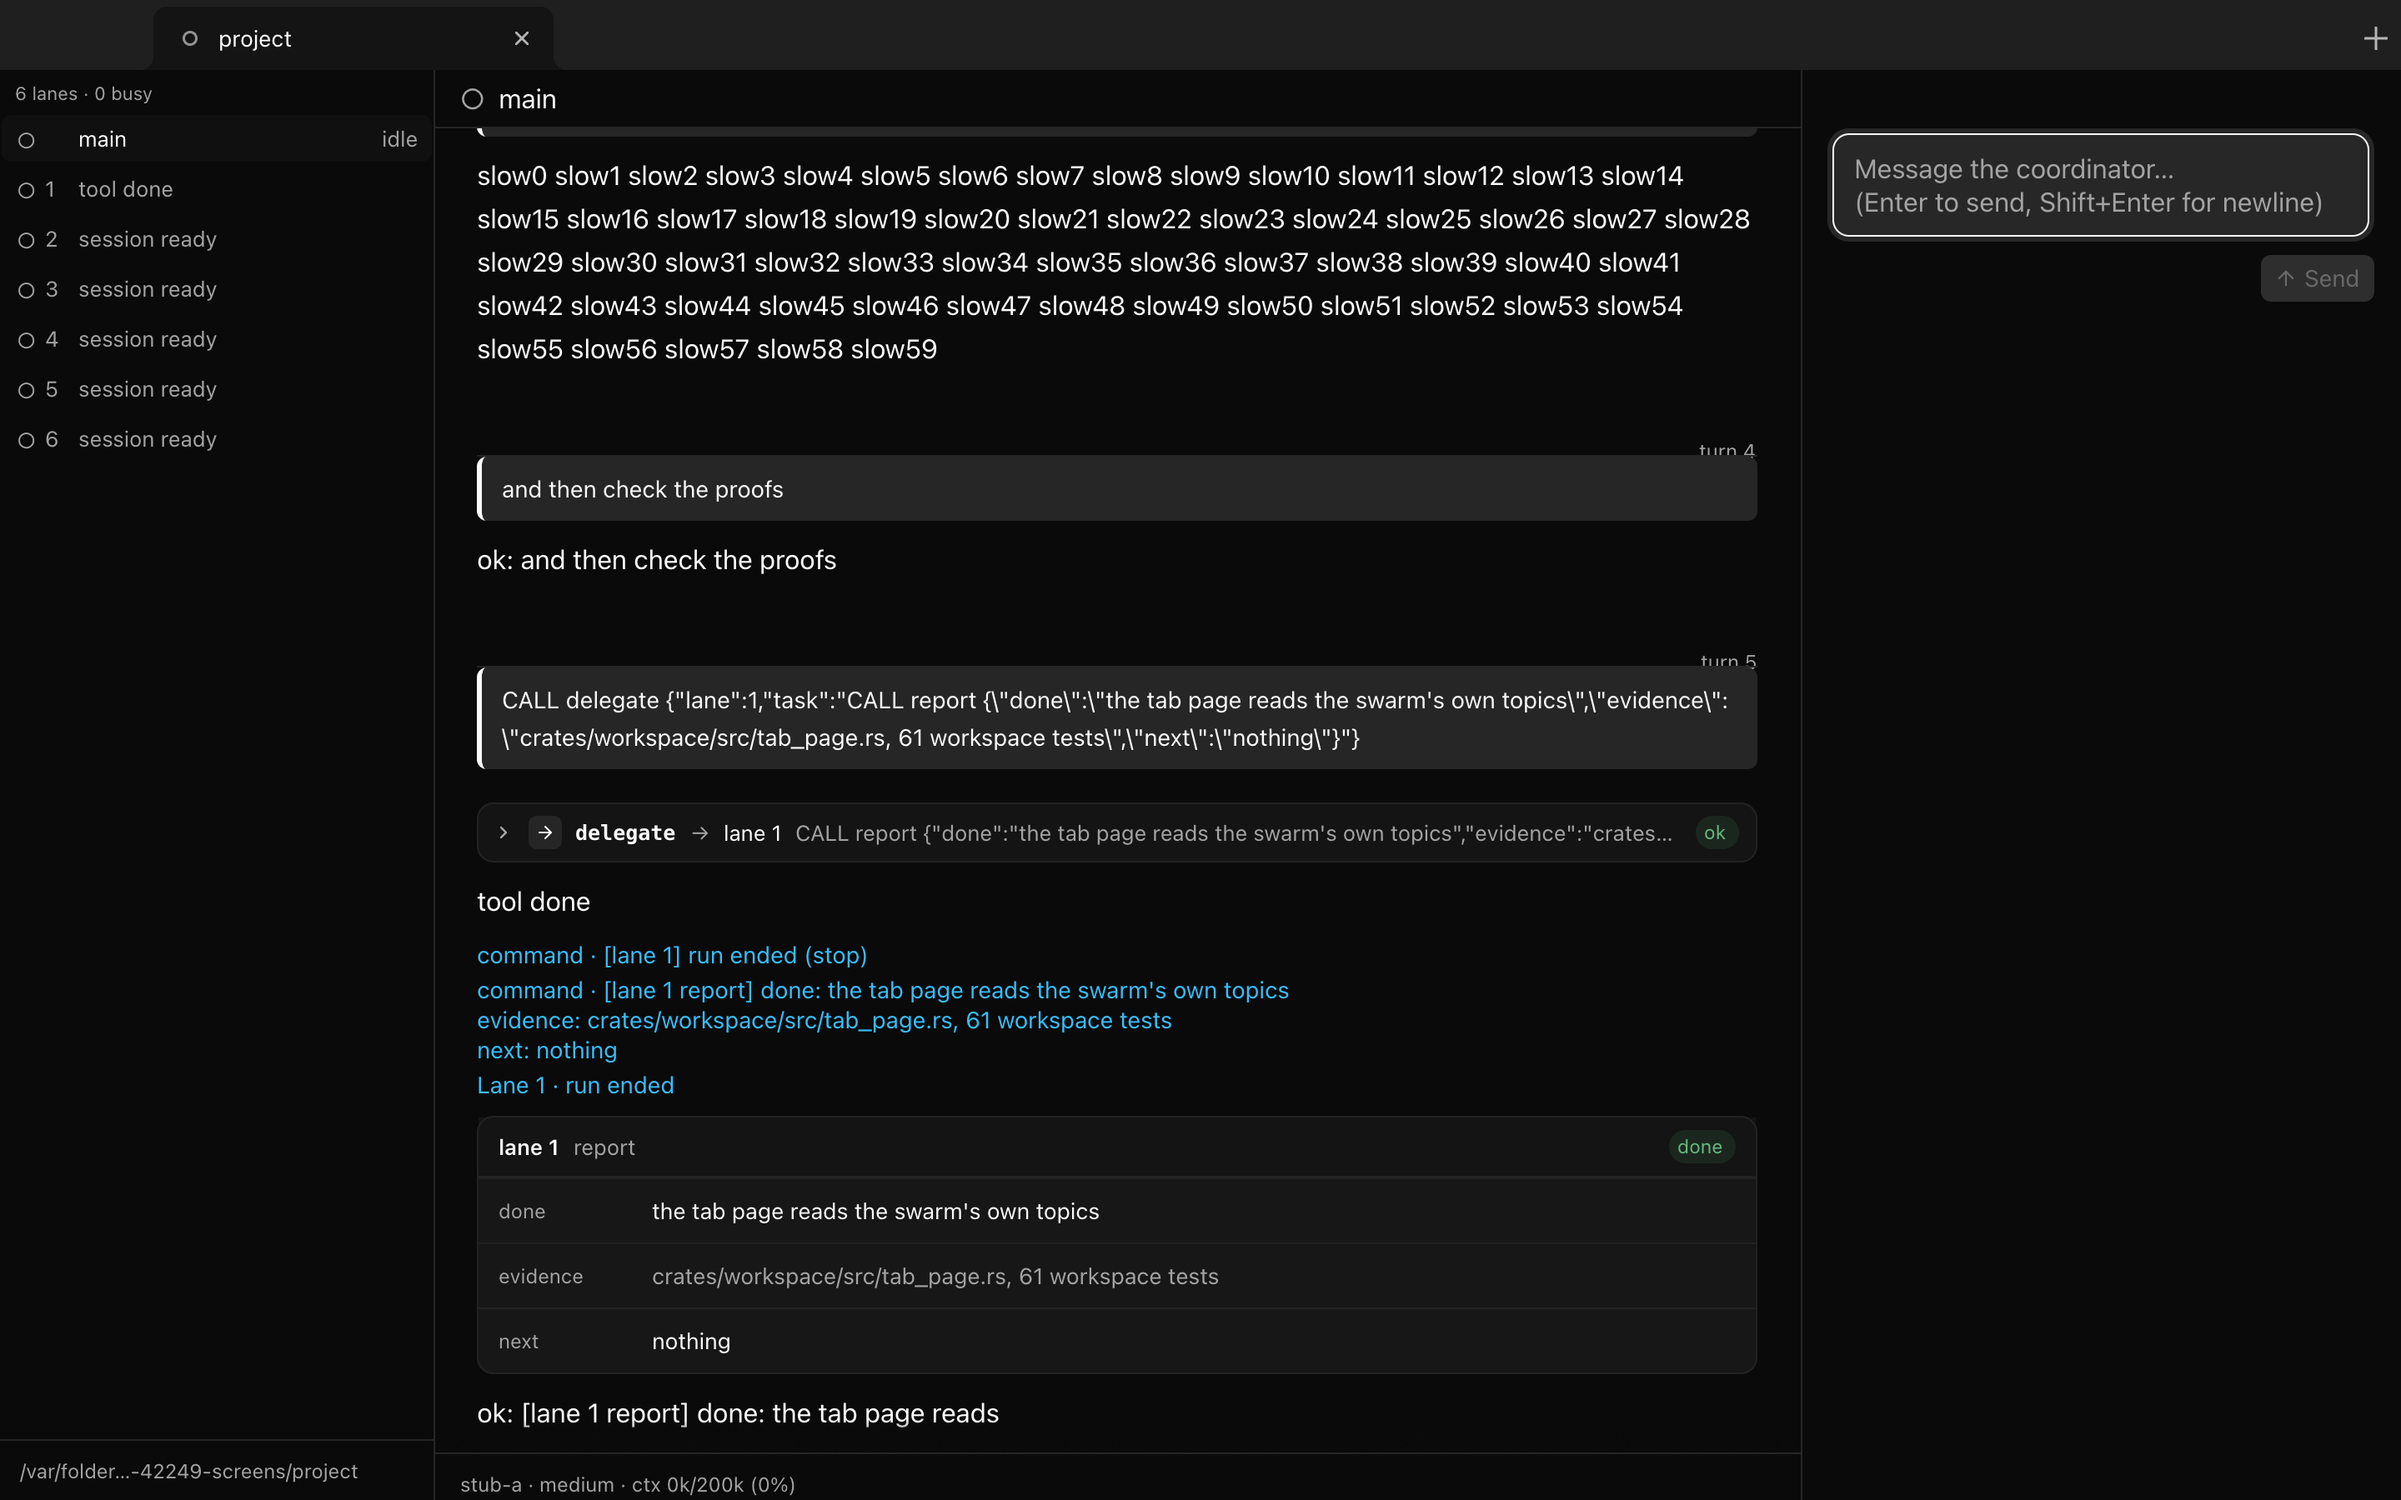
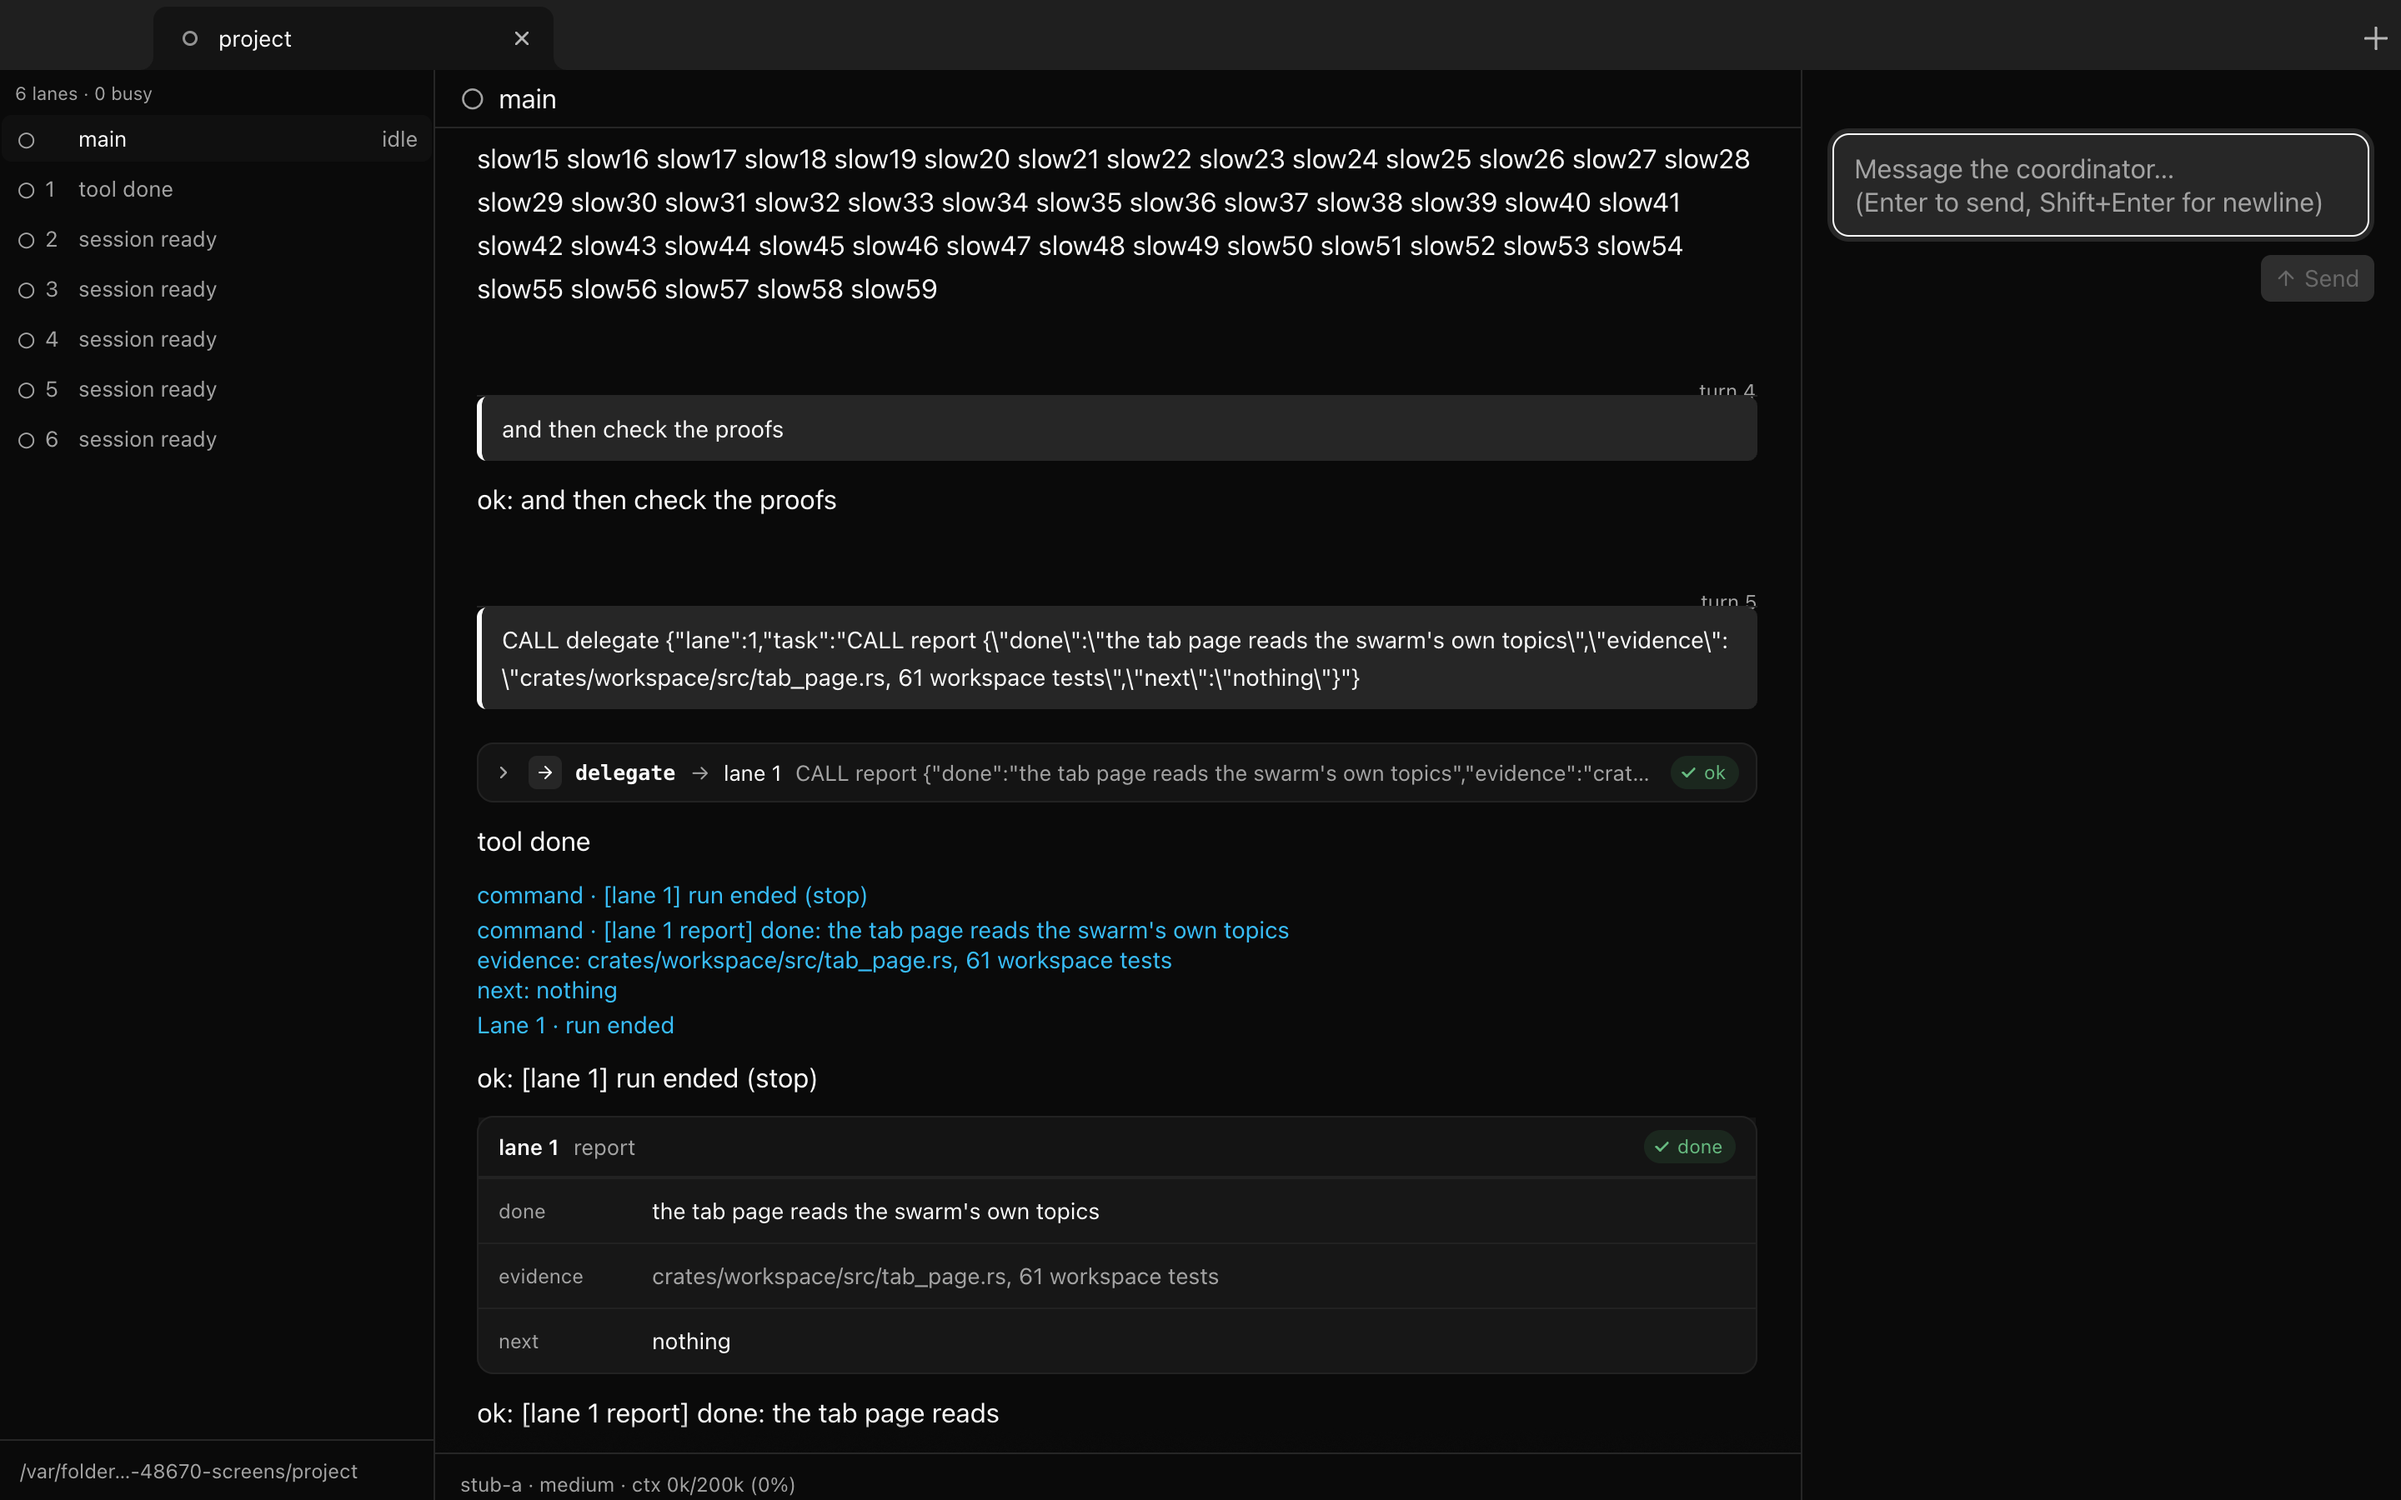
feat(transcript): a status pill carries the design's tick, in the state's own colour
`Rows.css` draws the pill's ground and ink from one colour — the green its statuses
happen to be — and puts a tick in front of the word. Both are now the state's: a
tool that is running, blocked or in error takes its own colour most of the way to
the ink over 12% of it on the surface, and a tick is drawn for the states that are
done, through the same painter as the strip's glyphs (`m5 12 5 5L20 7` of the
design's 24-unit box, at 11px and three units of stroke).

Changed region(s): [[0.1875, 0.0622, 0.75, 0.7467]]

diff --git a/crates/transcript/src/rows.rs b/crates/transcript/src/rows.rs
@@ -1241,7 +1241,12 @@ fn tool_row(
             .text_color(palette.muted_foreground)
             .child(summary),
     );
-    head = head.child(status_pill(status, pill, palette));
+    head = head.child(status_pill(
+        status,
+        pill,
+        palette,
+        tool.status == session::ToolStatus::Ok,
+    ));
 
     let mut card = div()
         .id(row_id("transcript-tool-row", &id))
@@ -1351,10 +1356,14 @@ pub(crate) fn tool_sentence(args: &Value) -> (String, String) {
 /// lets CSS cut it to the row; this keeps a head from measuring a novel.
 const TC_SUMMARY_LIMIT: usize = 120;
 
-/// The status pill a card's head carries: the success green most of the way to the
-/// ink, on a ground of the same green 12% over the surface, at a fixed 20px.
-fn status_pill(status: &str, _status_color: Hsla, palette: &Palette) -> AnyElement {
-    div()
+/// The status pill a card's head carries: the status colour most of the way to
+/// the ink, on a ground of the same colour 12% over the surface, at a fixed 20px
+/// — the design's rule for its green, applied to whatever state the card is in.
+///
+/// The design's pill carries a small tick; a state that is not a success has no
+/// tick to show, so one is drawn for the states that are done.
+fn status_pill(status: &str, colour: Hsla, palette: &Palette, tick: bool) -> AnyElement {
+    let mut pill = div()
         .flex_shrink_0()
         .h(px(20.))
         .flex()
@@ -1364,10 +1373,35 @@ fn status_pill(status: &str, _status_color: Hsla, palette: &Palette) -> AnyEleme
         .pr(px(7.))
         .rounded_full()
         .text_size(px(11.5))
-        .text_color(palette.pill_ink)
-        .bg(palette.pill_ground(palette.sidebar))
-        .child(status.to_string())
-        .into_any_element()
+        .text_color(mix(colour, 85., palette.foreground))
+        .bg(mix(colour, 12., palette.sidebar));
+    if tick {
+        // `<Tick/>` in the design: `m5 12 5 5L20 7` of a 24-unit box, 3 units of
+        // stroke, round caps — the same painter as the strip's glyphs.
+        pill = pill.child(glyph::stroked(
+            TICK_GLYPH,
+            TICK_STROKE,
+            &tick_lines(),
+            pill_ink(colour, palette),
+        ));
+    }
+    pill.child(status.to_string()).into_any_element()
+}
+
+/// The tick's own size, from the design's 11px glyph at a 3-in-24 stroke.
+const TICK_GLYPH: f32 = 11.;
+const TICK_STROKE: f32 = 1.4;
+
+/// The tick `m5 12 5 5L20 7`, scaled to [`TICK_GLYPH`].
+fn tick_lines() -> Vec<(Point<Pixels>, Point<Pixels>)> {
+    let size = TICK_GLYPH;
+    let at = |x: f32, y: f32| point(px(x / 24. * size), px(y / 24. * size));
+    vec![(at(5., 12.), at(10., 17.)), (at(10., 17.), at(20., 7.))]
+}
+
+/// The pill's ink: the status colour most of the way to the foreground.
+fn pill_ink(colour: Hsla, palette: &Palette) -> Hsla {
+    mix(colour, 85., palette.foreground)
 }
 
 /// The disclosure of a tool row: the design's chevron, turning a quarter in
@@ -1651,7 +1685,7 @@ fn report_row(id: ItemId, report: &LaneReport, palette: &Palette) -> AnyElement 
                 .child(
                     div()
                         .ml_auto()
-                        .child(status_pill("done", palette.success, palette)),
+                        .child(status_pill("done", palette.success, palette, true)),
                 )
                 .test_support(),
         );

diff --git a/crates/transcript/src/style.rs b/crates/transcript/src/style.rs
@@ -43,9 +43,6 @@ pub(crate) struct Palette {
     pub(crate) sidebar: Hsla,
     /// The lightest surface: a card's body, an input.
     pub(crate) input: Hsla,
-    /// A status pill's ink — the success colour most of the way to the ink, which
-    /// is what `Rows.css` mixes its `.tc-status` text from.
-    pub(crate) pill_ink: Hsla,
     pub(crate) warning: Hsla,
     pub(crate) info: Hsla,
     pub(crate) mono: SharedString,
@@ -87,10 +84,6 @@ impl Palette {
         mix(self.foreground, 10., self.background)
     }
 
-    pub(crate) fn pill_ground(&self, surface: Hsla) -> Hsla {
-        mix(self.success, 12., surface)
-    }
-
     pub(crate) fn from_app(cx: &App) -> Self {
         let theme = cx.theme();
         let colors = theme.semantic_tokens().colors;
@@ -113,7 +106,6 @@ impl Palette {
             // (`--sidebar`).
             sidebar: color(design::palette(theme.is_dark()).sidebar),
             input: color(design::palette(theme.is_dark()).input),
-            pill_ink: mix(theme.success, 85., colors.foreground),
             muted: colors.muted,
             muted_foreground: colors.muted_foreground,
             border: colors.border,
